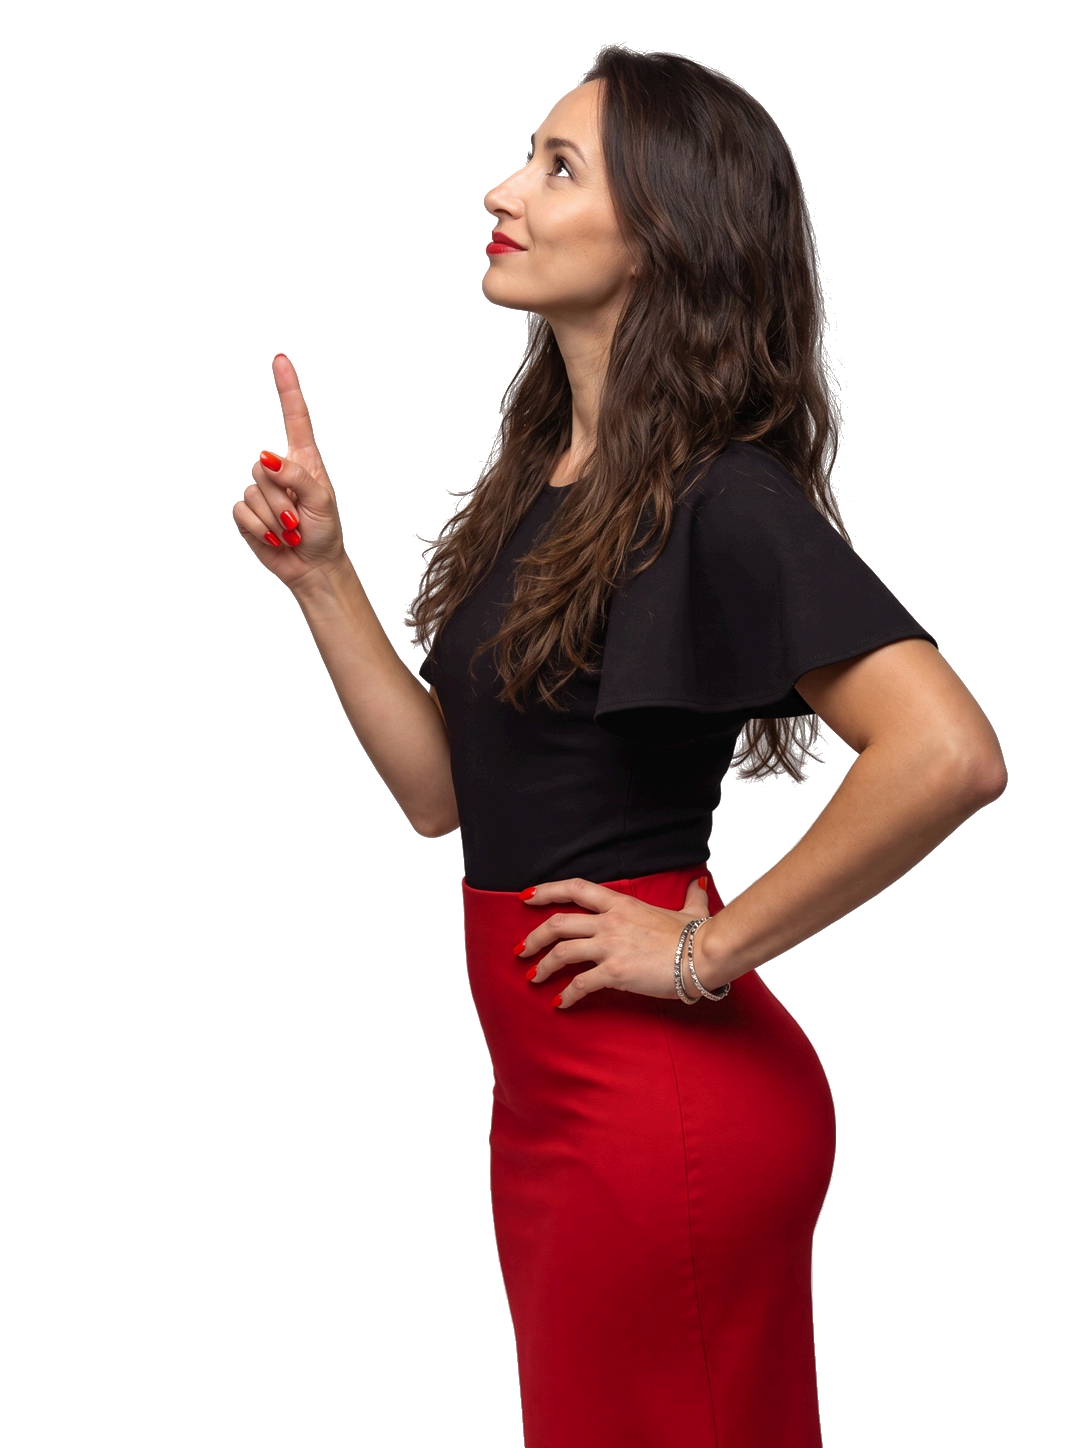
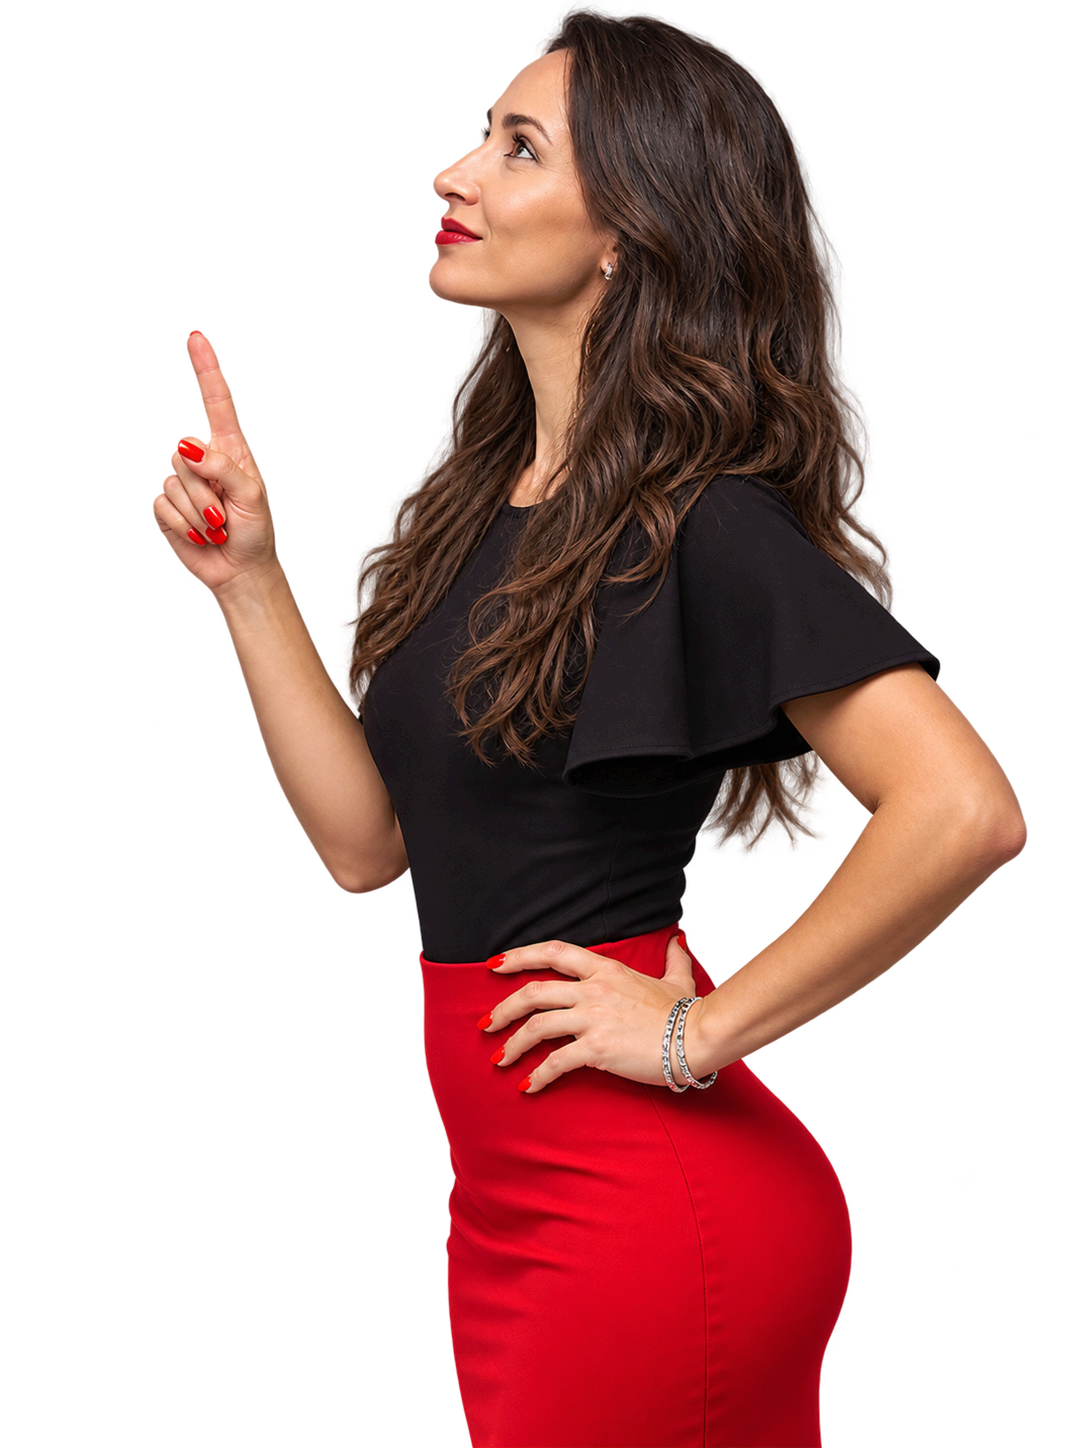
Дизайн-правки: логотип, заголовок, іконки послуг, нові вирізки фото
- Напис «Норма Фінанс» біля логотипа на висоту знака
- Заголовок «Коли бухгалтерія є, а ясності немає» завжди у 2 рядки
- Послуги: нові іконки на плашках замість контурних цифр
- Нові вирізки фото засновниці (палець угору, танець)

diff --git a/style.css b/style.css
@@ -59,7 +59,7 @@ img{display:block}
 @property --w{syntax:'<percentage>';inherits:false;initial-value:0%}
 .brand__frame{--a:0deg;-webkit-mask-image:conic-gradient(#000 var(--a),transparent calc(var(--a) + .5deg));mask-image:conic-gradient(#000 var(--a),transparent calc(var(--a) + .5deg));animation:ring 1.5s .3s cubic-bezier(.5,0,.3,1) both}
 .brand__h{--w:0%;-webkit-mask-image:linear-gradient(90deg,#000 var(--w),transparent calc(var(--w) + 14%));mask-image:linear-gradient(90deg,#000 var(--w),transparent calc(var(--w) + 14%));animation:wipe 1.3s 1.5s cubic-bezier(.5,0,.3,1) both}
-.brand__word{display:block;font-family:var(--f-head);font-weight:800;font-size:17px;line-height:.98;letter-spacing:.05em;text-transform:uppercase;color:#fff;white-space:nowrap;animation:word .9s 2.5s both}
+.brand__word{display:block;font-family:var(--f-head);font-weight:800;font-size:27px;line-height:.9;letter-spacing:.04em;text-transform:uppercase;color:#fff;white-space:nowrap;animation:word .9s 2.5s both}
 @keyframes ring{from{--a:0deg}to{--a:361deg}}
 @keyframes wipe{from{--w:0%}to{--w:100%}}
 @keyframes word{from{opacity:0;transform:translateX(-8px)}}
@@ -113,7 +113,7 @@ img{display:block}
   :root{--G:80px;--ind:0px}
   .hero{--r:190px}
   .hint{top:84px;font-size:.68rem}
-  .brand__mark{width:38px;height:38px}.brand__word{font-size:14.5px}
+  .brand__mark{width:38px;height:38px}.brand__word{font-size:23px}
   .title{font-size:clamp(1.55rem,8vw,2.4rem);margin-bottom:18px}
   .lead{font-size:.95rem;margin-bottom:22px}
   .cta{flex-direction:column}.cta .btn{text-align:center}
@@ -154,7 +154,8 @@ img{display:block}
 .pain__in{position:relative;z-index:2;display:grid;grid-template-columns:minmax(0,5fr) minmax(0,7fr);gap:clamp(32px,6vw,96px);align-items:start;padding-left:var(--ind)}
 .pain .eyebrow{color:#fff;opacity:.9}
 .pain .h2 em{color:#121521;background:#fff;padding:.02em .16em;-webkit-box-decoration-break:clone;box-decoration-break:clone}
-.pain__head{position:sticky;top:110px}
+.pain__head{position:sticky;top:110px;container-type:inline-size}
+.pain .h2{font-size:min(3rem,8.3cqi);white-space:nowrap}
 .pain__list li{display:grid;grid-template-columns:64px 1fr;gap:18px;align-items:baseline;padding:26px 0;border-top:1px solid rgba(255,255,255,.4)}
 .pain__list li:last-child{border-bottom:1px solid rgba(255,255,255,.4)}
 .pain__n{font-family:var(--f-head);font-weight:800;font-size:1.05rem;color:#121521;letter-spacing:.06em}
@@ -175,9 +176,10 @@ img{display:block}
 .svc-card:hover,.svc-card:focus-visible{transform:translateY(-6px);box-shadow:0 22px 44px -18px rgba(16,38,98,.35);border-color:rgba(251,104,53,.55)}
 .svc-card:hover::before,.svc-card:focus-visible::before{opacity:1}
 .svc-card>*{position:relative}
-.svc-card__n{position:absolute;right:20px;top:8px;font-family:var(--f-head);font-weight:800;font-size:5.2rem;line-height:1;color:transparent;-webkit-text-stroke:1.5px rgba(16,38,98,.16);transition:-webkit-text-stroke-color .3s,transform .5s cubic-bezier(.2,.8,.2,1)}
-.svc-card:hover .svc-card__n{-webkit-text-stroke-color:var(--orange);transform:translateY(-4px)}
-.svc-card__ico{width:34px;height:34px;margin-bottom:auto;fill:none;stroke:var(--orange);stroke-width:1.6;stroke-linecap:round;stroke-linejoin:round}
+.svc-card__n{position:absolute;right:22px;top:24px;font-family:var(--f-head);font-weight:700;font-size:.8rem;line-height:1;letter-spacing:.16em;color:rgba(16,38,98,.42);-webkit-text-stroke:0;transition:color .3s}
+.svc-card:hover .svc-card__n{color:var(--orange)}
+.svc-card__ico{width:52px;height:52px;padding:12px;margin-bottom:auto;box-sizing:border-box;border-radius:14px;background:rgba(251,104,53,.12);fill:none;stroke:var(--orange);stroke-width:1.6;stroke-linecap:round;stroke-linejoin:round;transition:background .3s,stroke .3s}
+.svc-card:hover .svc-card__ico{background:var(--orange);stroke:#fff}
 .svc-card h3{font-family:var(--f-head);font-weight:700;font-size:1.12rem;line-height:1.3;margin:34px 0 10px}
 .svc-card p{font-size:.97rem;line-height:1.55;opacity:.72}
 
@@ -456,7 +458,7 @@ body.lock{overflow:hidden}
 .svc-card{background:rgba(255,255,255,.46);border:1px solid rgba(255,255,255,.8);backdrop-filter:blur(16px) saturate(130%);-webkit-backdrop-filter:blur(16px) saturate(130%);box-shadow:inset 0 1px 0 rgba(255,255,255,.9),0 24px 44px -28px rgba(16,38,98,.45);transition:transform .35s cubic-bezier(.2,.8,.2,1),box-shadow .35s,border-color .35s,background .35s,backdrop-filter .5s,-webkit-backdrop-filter .5s}
 .svc-card:hover,.svc-card:focus-visible{background:rgba(255,255,255,.34);backdrop-filter:blur(4px) saturate(140%);-webkit-backdrop-filter:blur(4px) saturate(140%);border-color:rgba(251,104,53,.7);box-shadow:inset 0 1px 0 rgba(255,255,255,.9),0 28px 50px -24px rgba(16,38,98,.5)}
 .svc-card p{opacity:.85}
-.svc-card__n{-webkit-text-stroke:1.5px rgba(16,38,98,.28)}
+.svc-card__n{-webkit-text-stroke:0}
 .svc-card:hover h3,.svc-card:hover p{text-shadow:0 0 14px rgba(255,255,255,.9)}
 
 /* ===== раунд 6: «Що входить у супровід» — список + картка деталей ===== */
@@ -608,7 +610,7 @@ body.lock{overflow:hidden}
 
 /* вузькі екрани: колонки не розпирає довге слово */
 @media (max-width:1000px){.pain__in,.flow__in,.svc__head,.game__in,.quiz__in,.mani__in,.scope{grid-template-columns:minmax(0,1fr)}}
-@media (max-width:640px){.pain .h2{font-size:clamp(1.45rem,7.4vw,2rem)}}
+@media (max-width:1000px){.pain .h2{font-size:min(3rem,calc((100vw - 40px) / 12))}}
 
 /* ===== раунд 14: фото рівно по низу блоку, пункти нижче, бліки й анімації ===== */
 .mani__fig{margin-bottom:calc(-1 * var(--mpb) - 8px);clip-path:inset(-80px -80px 8px -80px)}   /* прозорий край PNG ховаємо, світіння не виходить на наступний блок */
@@ -1192,11 +1194,11 @@ section[id],footer[id]{scroll-margin-top:calc(var(--hh) - 10px)}
 /* ---------- Телефон: компактні картки «Послуг» і Марія над панеллю ---------- */
 @media (max-width:640px){
   .svc__grid{gap:10px}
-  .svc .svc-card{display:grid;grid-template-columns:30px 1fr;column-gap:14px;align-items:start;min-height:0;padding:16px 16px 18px}
-  .svc .svc-card .svc-card__ico{grid-row:1/3;width:26px;height:26px;margin:2px 0 0}
+  .svc .svc-card{display:grid;grid-template-columns:40px 1fr;column-gap:14px;align-items:start;min-height:0;padding:16px 16px 18px}
+  .svc .svc-card .svc-card__ico{grid-row:1/3;width:40px;height:40px;padding:9px;border-radius:11px;margin:0}
   .svc .svc-card h3{font-size:.95rem;margin:0 0 6px;padding-right:48px}
   .svc .svc-card p{font-size:.86rem;line-height:1.42}
-  .svc .svc-card__n{font-size:2.4rem;right:12px;top:8px}
+  .svc .svc-card__n{font-size:.72rem;right:14px;top:16px}
 }
 @media (max-width:900px){
   .scope.has-fig{margin-top:clamp(150px,34vw,230px)}

diff --git a/index.html b/index.html
@@ -160,37 +160,37 @@
     <div class="svc__grid">
       <article class="svc-card rv" tabindex="0">
         <span class="svc-card__n">01</span>
-        <svg class="svc-card__ico" viewBox="0 0 24 24" aria-hidden="true"><rect x="4" y="3" width="16" height="18"/><path d="M8 8h8M8 12h8M8 16h5"/></svg>
+        <svg class="svc-card__ico" viewBox="0 0 24 24" aria-hidden="true"><rect x="5" y="3" width="14" height="18" rx="2"/><rect x="8" y="6" width="8" height="3.5" rx=".5"/><path d="M8.5 13h.01M12 13h.01M15.5 13h.01M8.5 17h.01M12 17h.01M15.5 17h.01"/></svg>
         <h3>Бухгалтерський супровід ФОП&nbsp;і&nbsp;ТОВ</h3>
         <p>Рахуємо податки, здаємо звіти, вчасно нагадуємо, що&nbsp;й&nbsp;коли&nbsp;сплатити.</p>
       </article>
       <article class="svc-card rv" style="--d:.06s" tabindex="0">
         <span class="svc-card__n">02</span>
-        <svg class="svc-card__ico" viewBox="0 0 24 24" aria-hidden="true"><path d="M12 4v12M6 10l6-6 6 6M5 20h14"/></svg>
+        <svg class="svc-card__ico" viewBox="0 0 24 24" aria-hidden="true"><rect x="3" y="7" width="18" height="13" rx="2"/><path d="M9 7V5.5A1.5 1.5 0 0110.5 4h3A1.5 1.5 0 0115 5.5V7M3 12.5h18M10.5 12.5v2h3v-2"/></svg>
         <h3>Реєстрація та&nbsp;закриття&nbsp;бізнесу</h3>
         <p>Відкриваємо й&nbsp;закриваємо ФОП і&nbsp;ТОВ: підбираємо систему оподаткування, подаємо документи, знімаємо&nbsp;з&nbsp;обліку.</p>
       </article>
       <article class="svc-card rv" style="--d:.12s" tabindex="0">
         <span class="svc-card__n">03</span>
-        <svg class="svc-card__ico" viewBox="0 0 24 24" aria-hidden="true"><circle cx="9" cy="8" r="3.5"/><path d="M2.5 20c.6-4 3.2-6 6.5-6s5.9 2 6.5 6M16 5a3.5 3.5 0 010 7M18 14c2 .6 3.2 2.6 3.500 6"/></svg>
+        <svg class="svc-card__ico" viewBox="0 0 24 24" aria-hidden="true"><circle cx="9" cy="7.5" r="3.5"/><path d="M2.5 20c.6-3.9 3.2-6 6.5-6 1 0 1.9.2 2.7.5"/><circle cx="17" cy="16.5" r="4.5"/><path d="M17 14.5v4M15.5 16.5h3"/></svg>
         <h3>Кадровий облік&nbsp;і&nbsp;зарплата</h3>
         <p>Оформлюємо співробітників, ведемо табелі, рахуємо зарплату й&nbsp;податки&nbsp;з&nbsp;неї.</p>
       </article>
       <article class="svc-card rv" style="--d:.18s" tabindex="0">
         <span class="svc-card__n">04</span>
-        <svg class="svc-card__ico" viewBox="0 0 24 24" aria-hidden="true"><path d="M4 20V11M10 20V4M16 20v-6M22 20H2"/></svg>
+        <svg class="svc-card__ico" viewBox="0 0 24 24" aria-hidden="true"><path d="M3 3v18h18"/><path d="M7 15l4-4 3 3 6-6"/><path d="M16 8h4v4"/></svg>
         <h3>Фінансовий та управлінський&nbsp;облік</h3>
         <p>Звіти про&nbsp;прибуток, рух грошей і&nbsp;баланс: ви&nbsp;розумієте, скільки заробили й&nbsp;куди пішли&nbsp;гроші.</p>
       </article>
       <article class="svc-card rv" style="--d:.24s" tabindex="0">
         <span class="svc-card__n">05</span>
-        <svg class="svc-card__ico" viewBox="0 0 24 24" aria-hidden="true"><path d="M4 7h10M18 7h2M4 17h2M10 17h10"/><circle cx="16" cy="7" r="2"/><circle cx="8" cy="17" r="2"/></svg>
+        <svg class="svc-card__ico" viewBox="0 0 24 24" aria-hidden="true"><rect x="3" y="3" width="7" height="7" rx="1.5"/><rect x="14" y="14" width="7" height="7" rx="1.5"/><path d="M10 6.5h4.5a3 3 0 013 3V14M15 11.5l2.5 2.5 2.5-2.5"/></svg>
         <h3>Бізнес-процеси й&nbsp;автоматизація</h3>
         <p>Розбираємо, як&nbsp;у&nbsp;вас рухаються документи, і&nbsp;налаштовуємо так, щоб менше переписок і&nbsp;ручної&nbsp;роботи.</p>
       </article>
       <article class="svc-card rv" style="--d:.3s" tabindex="0">
         <span class="svc-card__n">06</span>
-        <svg class="svc-card__ico" viewBox="0 0 24 24" aria-hidden="true"><circle cx="11" cy="11" r="6"/><path d="M16 16l5 5"/></svg>
+        <svg class="svc-card__ico" viewBox="0 0 24 24" aria-hidden="true"><path d="M12 3l7 3v5.5c0 4.3-2.9 7.9-7 9.5-4.1-1.6-7-5.2-7-9.5V6z"/><path d="M9 12l2.2 2.2L15.5 10"/></svg>
         <h3>Фінансовий моніторинг і&nbsp;спеціальні&nbsp;запити</h3>
         <!-- TODO клієнтка: підтвердити, що саме входить у цю послугу -->
         <p>Запит від&nbsp;банку чи&nbsp;держоргану, незвична операція: допоможемо підготувати документи й&nbsp;відповідь.</p>
